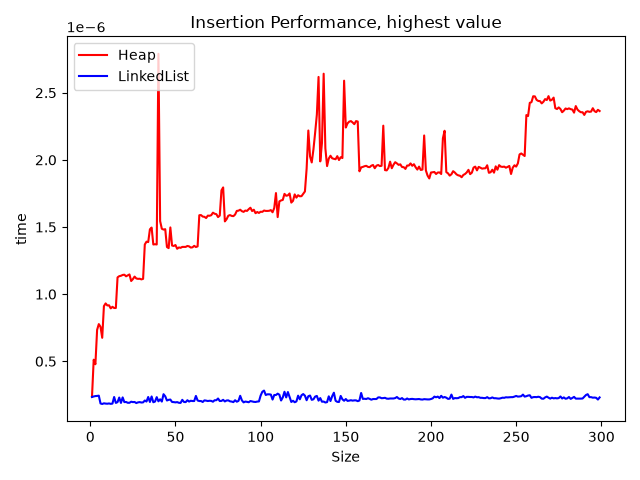
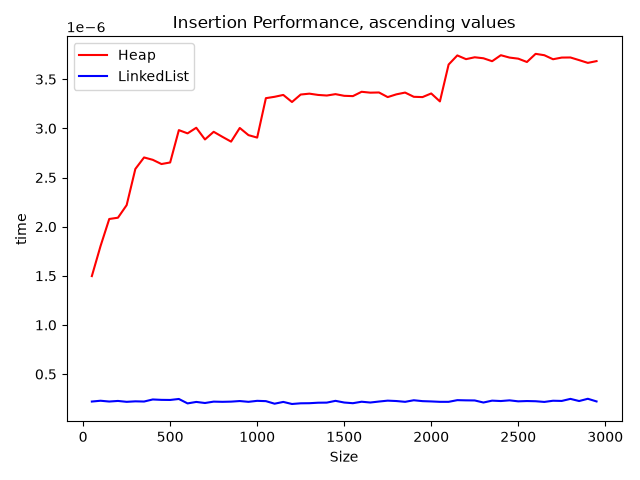
finalized tests and last refactoring

diff --git a/PicchioniEs1LabAlg.py b/PicchioniEs1LabAlg.py
@@ -398,24 +398,22 @@ def plot_graph(data_type, number_of_operation, time):
 
 
 def measure_insert_time(data_type, number_of_operation, elements, time, repeats):
-    if data_type == 0:
-        prio_queue = Heap()
-    elif data_type == 1:
-        prio_queue = OrderedLinkedList()
-    else:
-        prio_queue = LinkedList()
     for i in number_of_operation:
         best = inf
-        for j in range(repeats):
+        for _ in range(repeats):
+            if data_type == 0:
+                prio_queue = Heap()
+            elif data_type == 1:
+                prio_queue = OrderedLinkedList()
+            else:
+                prio_queue = LinkedList()
+            for e in elements[: i - 1]:
+                prio_queue.insert(e)
             new_value = elements[i]
             start = timer()
             prio_queue.insert(new_value)
             end = timer()
             best = min(best, end - start)
-            if j == repeats - 1:
-                break
-            prio_queue.remove(new_value)
-
         time.append(best)
     plot_graph(data_type, number_of_operation, time)
 
@@ -428,22 +426,23 @@ def insert_test(
     interval_end,
     number_of_repeats,
     inputs,
+    test_name=None,
 ):
     # Testing insertion of highest value
     if test_type == 1:
-        test_type_string = "highest"
+        test_type_string = "ascending"
         inputs = range(number_of_elements)
-        print("## Testing insertion of highest value")
+        print("## Testing insertion of ascending values")
     # Testing insertion of lowest value
     elif test_type == 2:
-        test_type_string = "lowest"
+        test_type_string = "descending"
         inputs = range(number_of_elements, 0, -1)
-        print("## Testing insertion of lowest value")
+        print("## Testing insertion of descending values")
     else:
         # Testing insertion of random value
         test_type_string = "random"
         inputs = random.choices(range(interval_end), k=number_of_elements)
-        print("## Testing insertion of a random value")
+        print("## Testing insertion of random values")
 
     for i in types_to_test:
         time = []
@@ -455,9 +454,10 @@ def insert_test(
             number_of_repeats,
         )
 
-    plt.title("Insertion Performance, " + test_type_string + " value")
-    if len(types_to_test) < 3:
-        test_type_string = "no_ordered"
+    if test_name is not None:
+        test_type_string = test_name
+
+    plt.title("Insertion Performance, " + test_type_string + " values")
     plt.xlabel("Size")
     plt.ylabel("time")
     plt.legend(loc="upper left")
@@ -530,16 +530,16 @@ def increase_key_test(
     plot_graph(data_type, number_of_operation, time)
 
 
-number_of_elements = 300
-step = 1
+number_of_elements = 3000
+step = 50
 number_of_operation = range(step, number_of_elements, step)
 interval_end = 30000
-number_of_repeats = 10
+number_of_repeats = 5
 inputs = random.choices(range(interval_end), k=number_of_elements)
 
 print("# Testing Insertion cases")
 types_to_test = range(3)
-for i in range(3):
+for i in range(1, 3):
     insert_test(
         i,
         types_to_test,
@@ -550,7 +550,20 @@ for i in range(3):
         inputs,
     )
 
-print("# Testing Insertion cases, only Heap and LinkedList")
+print("# Testing Insertion of random values, only Heap and LinkedList")
+types_to_test = [0, 2]
+insert_test(
+    0,  # test for random values
+    types_to_test,
+    number_of_elements,
+    number_of_operation,
+    interval_end,
+    number_of_repeats,
+    inputs,
+    "random_no_ord",
+)
+
+print("# Testing Insertion of ascending values, only Heap and LinkedList")
 types_to_test = [0, 2]
 insert_test(
     1,
@@ -560,6 +573,7 @@ insert_test(
     interval_end,
     number_of_repeats,
     inputs,
+    "acending_no_ord",
 )
 
 print("# Testing Remove_Max")
